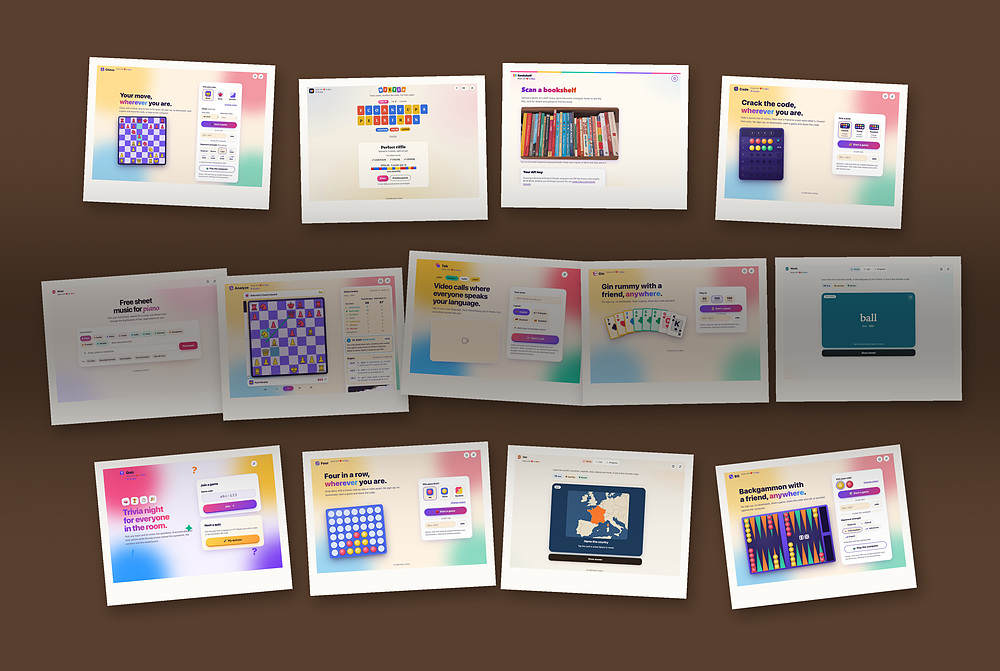
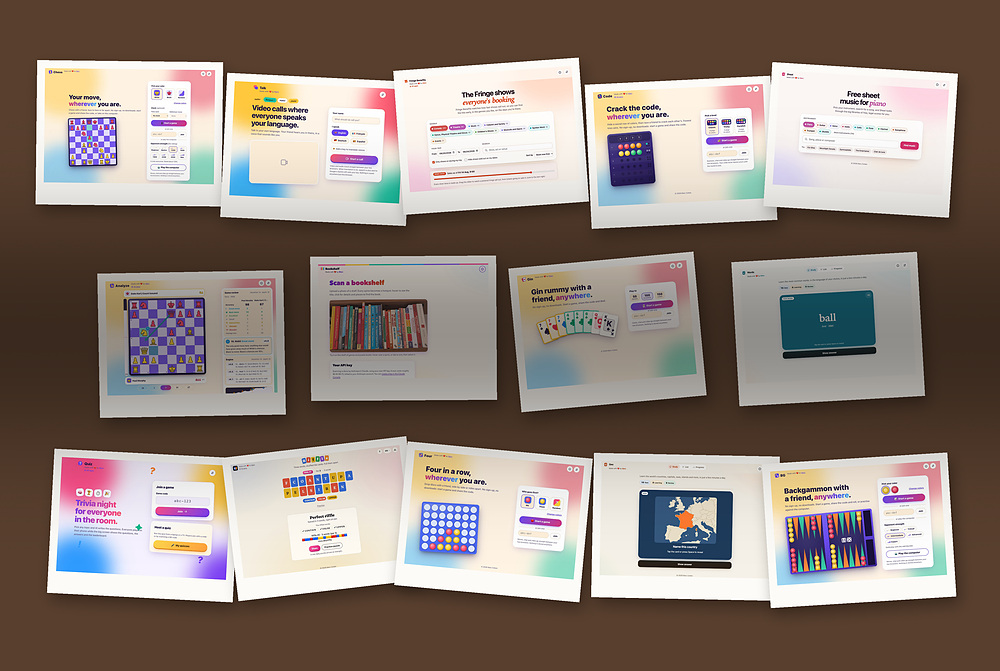
Count Fringe Benefits: 14 apps in 7 days
Add Fringe Benefits to the apps carousel and the cover collage, and
retitle the post. An alias keeps the original /13-apps-in-7-days/ link
working.

diff --git a/layouts/shortcodes/apps-carousel.html b/layouts/shortcodes/apps-carousel.html
@@ -1,4 +1,4 @@
-{{- /* A scrolling carousel of the apps, used by build-an-app.md and the "13 Apps in 7 Days" post.
+{{- /* A scrolling carousel of the apps, used by build-an-app.md and the "14 Apps in 7 Days" post.
        Add new apps here so every page that shows the carousel stays in step. Self-contained:
        styles and script travel with it. Use it in a page as apps-carousel in shortcode brackets. */ -}}
 <style>
@@ -110,6 +110,13 @@
         <img src="/img/apps/bookshelf.jpg" alt="The Bookshelf landing page, showing a photo of a shelf of games and puzzle books" width="1280" height="860" loading="lazy">
         <strong>Bookshelf</strong>
         <span>Turn a photo of your shelf into a clickable catalogue</span>
+      </a>
+    </li>
+    <li class="ac-app">
+      <a href="/fb/" target="_blank">
+        <img src="/img/apps/fb.jpg" alt="The Fringe Benefits landing page, with genre chips, trip dates and a slider for watching demo sales" width="1280" height="860" loading="lazy">
+        <strong>Fringe Benefits</strong>
+        <span>The Fringe shows everyone's booking</span>
       </a>
     </li>
   </ul>

diff --git a/content/post/random/apps.md b/content/post/random/apps.md
@@ -1,13 +1,14 @@
 +++
 categories = ["One Great Thing", "Random"]
 tags = ["Apps"]
-title = "13 Apps in 7 Days"
+title = "14 Apps in 7 Days"
+aliases = ["/13-apps-in-7-days/"]   # the post went live under its first title
 date = "2026-11-22"
 coverImage = "/img/apps-cover.jpg"
 draft = false
 +++
 
-Using Claude Code, I've built thirteen apps in the past week. AI coding has crossed a threshold.
+Using Claude Code, I've built fourteen apps in the past week. AI coding has crossed a threshold.
 
 <!--more-->
 
